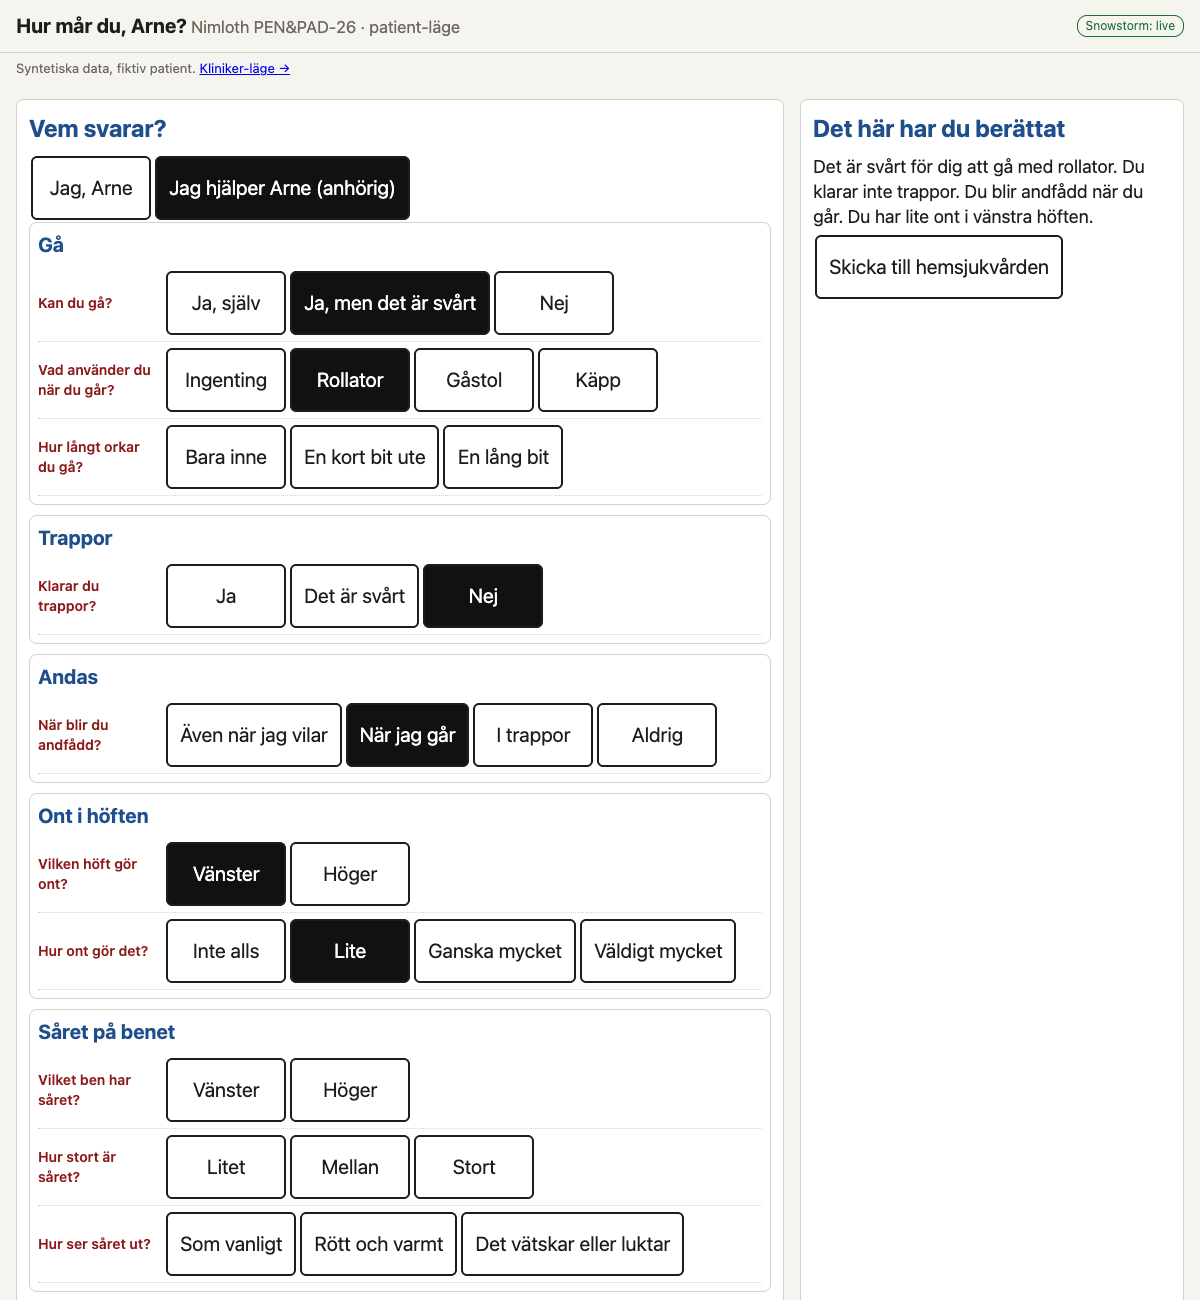
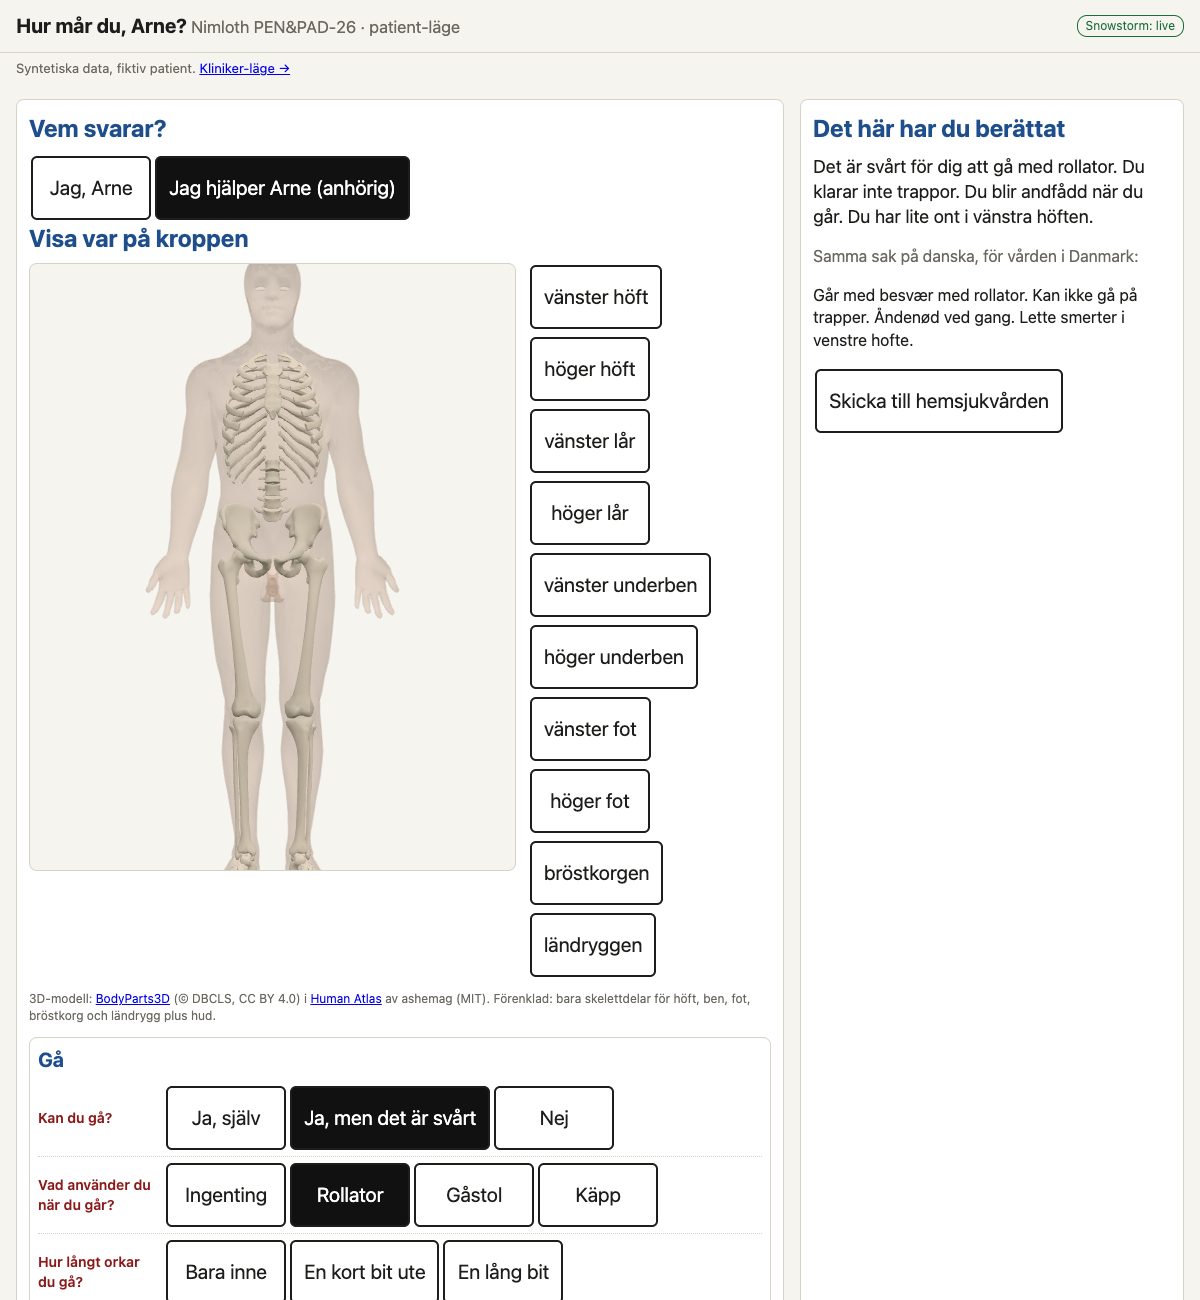
Nimloth PEN&PAD-26: 3D patient body map, new openEHR template, Access note

diff --git a/challenge/nimloth-penpad26/readme.md b/challenge/nimloth-penpad26/readme.md
@@ -1,7 +1,7 @@
 # Arne's function, in any language — PEN&PAD on the Arne scenario
 Nordic Hackathon 2026, PEN&PAD-26 bonus track · Nimloth (Anders Carlius)
 
-**Live demo:** https://penpad.nimloth.se (clinician mode) · https://penpad.nimloth.se/patient/ (patient mode)
+**Live demo:** https://penpad.nimloth.se (clinician mode) · https://penpad.nimloth.se/patient/ (patient mode). The demo sits behind Cloudflare Access; reviewers are invited by e-mail on request.
 **Contact:** TODO(Anders): GitHub handle or contact page
 
 ## The gap we aimed at
@@ -9,7 +9,7 @@ Arne (83, fictional) breaks his hip on the stairs in Copenhagen and is discharge
 
 We used the same coded record for both sides of the border:
 - **Clinician mode** (discharge, Rigshospitalet) follows the track's three steps. *Orientation:* body map (hip, leg, chest), topic list (transfer, walking, stairs, breathing, pain, wound), or free text / speech. *Refinement:* only follow-ups that make sense, as short questions (fracture → left or right? operated? · walking → aid? how far? · breathing → breathless at rest, walking or stairs?). *Confirmation:* "Is this what you meant?" as a live sentence.
-- **Patient mode** (at home in Sweden): plain Swedish and big buttons. Arne answers himself, or his son does it for him. The result is saved as a **draft marked patient-reported**, with "reported by: patient / relative". The home-care nurse opens the draft in clinician mode, refines it and confirms it. We show provenance; we do not try to solve proxy consent.
+- **Patient mode** (at home in Sweden): plain Swedish and big buttons, plus a **3D body** to point at (where it hurts, where the leg ulcer is). The 3D view is only the default in patient mode; the clinician keeps a fast 2D map and list, because a model you must rotate slows a clinician down (Rector: "exhaustive is the enemy of the useful"). A list next to the 3D view does the same thing, and replaces it when WebGL or the geometry is missing. Arne answers himself, or his son does it for him. The result is saved as a **draft marked patient-reported**, with "reported by: patient / relative". The home-care nurse opens the draft in clinician mode, refines it and confirms it. We show provenance; we do not try to solve proxy consent.
 
 ## Three things worth looking at
 1. **The track's three steps in both modes**: orientation, refinement and confirmation.
@@ -21,25 +21,30 @@ We used the same coded record for both sides of the border:
 ## Rector's recipe, applied
 | Rector (interviews part 2 and 4) | What we built for Arne |
 |---|---|
-| Separate the concept model, the information model and inference; coordinate, don't merge | SNOMED CT (Snowstorm, Swedish edition) sanctions what can be said; openEHR (EHRbase, `problem_diagnosis`) stores it; FHIR R4 / EPS carries it across the border |
+| Separate the concept model, the information model and inference; coordinate, don't merge | SNOMED CT (Snowstorm, Swedish edition) sanctions what can be said; openEHR (EHRbase, template `nimloth_penpad26_symptom.v0`) stores it; FHIR R4 / EPS carries it across the border |
 | The concept model *sanctions*: query it, don't invent concepts | Every option is checked at runtime: ECL membership, or the MRCM attribute range (laterality, severity). Unsanctioned options are dropped, or shown dotted when Snowstorm is down |
 | Assemble forms from fragments hung on the concept model | `model/arne-scenario.json` holds the fragments (topics, questions, candidate codes); no form rows are hard-coded in the UI |
 | Big toggle buttons, a visible "more", no death by a thousand clicks | Big toggles, at most three short questions per topic, one click to undo |
 | "Is this what you meant?": show back a processed result, easy to correct | Live four-language sentence and SNOMED CT expression on every click; optional local LLM (on our own box, never the cloud) may only pick among offered values (JSON schema) and its picks are marked until the clinician accepts them |
 | Different language for clinicians and patients | `sv` vs `sv-enkel` from the same record; patient mode in plain Swedish |
 | Be tolerant of broken parts | Snowstorm down → offline snapshot or unsanctioned + warning; EHRbase down → queued in the browser, "ej sparad"; FHIR down → resource shown, "ej skickad". Tested by pointing each at a wrong URL |
+| Show that options exist; let the user turn away at any time | Patient points on a 3D body (BodyParts3D meshes); a hand-written FMA→SNOMED table (`mapping/fma-to-snomed-arne.yaml`, codes confirmed in Snowstorm, laterality as its own field) turns the tap into a site; unknown meshes resolve to the nearest listed region or "unknown place – choose in the list", never a guessed code |
 | Cheap cardboard prototypes first | The engine was first built against recorded Snowstorm fixtures (the Clinergy thumb-pain walkthrough is kept as a regression test) |
 
 ## The actor test
 TODO(Anders): keep the actor-test section from the v0.1 draft (Rector, part 2: was the clinician attending to the patient or to the computer?).
 
 ## Honest limitations
+- FMA→SNOMED is a hand-written table for this one scenario (hip, thigh, lower leg, foot, chest, lumbar back), not a general mapping. 3D is deliberately the default only in patient mode (see the actor test and Rector's "exhaustive is the enemy of the useful").
 - Danish and plain Swedish are hand-written templates for this one scenario, not a general translator.
 - Danish SNOMED CT terms are not loaded in our Snowstorm (only the international and Swedish editions), so the Danish text comes from our templates only.
 - Proxy consent for relatives is not solved; we only show provenance.
-- openEHR uses the existing `problem_diagnosis` template (one entry per finding); a dedicated functional-status template (e.g. Barthel / symptom_sign) would be better.
+- openEHR uses a small template generated for the demo (`nimloth_penpad26_symptom.v0`: encounter → story → symptom_sign + anatomical_location, plus exam), pruned from CKM archetypes; a validated functional-status template (e.g. Barthel) would be better.
 - Local LLM suggestions run on CPU and take about a minute.
 - EHDS requirements apply from 2029–2031; this is a prototype on synthetic data (Arne is fictional).
+
+## 3D model attribution
+The 3D body in patient mode uses **BodyParts3D 4.0** (© The Database Center for Life Science, [CC BY 4.0](https://creativecommons.org/licenses/by/4.0/), https://dbarchive.biosciencedbc.jp/en/bodyparts3d/) as packaged in **[Human Atlas](https://github.com/ashemag/human-atlas) by ashemag (MIT)**. We load only 64 skeleton meshes plus the skin (1.6 MB gzip instead of ~33 MB); meshes are copied unchanged. Human Atlas itself is not part of this pull request; we link to it.
 
 ## Thanks
 To the PEN&PAD revival team for the [Clinergy extractor and notes](https://pen-pad-revival.github.io/docs/clinergy/) and the [thumb-pain walkthrough](https://pen-pad-revival.github.io/docs/clinergy-thumb-pain-demo/), and to the Nordic Hackathon organisers for the Arne scenario. We built on the ideas; we did not copy code or content from the Clinergy installation.
@@ -49,4 +54,4 @@ To the PEN&PAD revival team for the [Clinergy extractor and notes](https://pen-p
 |---|---|
 | ![Orientation](01-inriktning.png) Orientation: body map + topic list | ![Refinement](02-forfining.png) Refinement as short questions |
 | ![Four languages](03-fyra-sprak.png) One record, four languages | ![EPS validation](04-eps-validering.png) openEHR saved, EPS validated |
-| ![Patient mode](05-patient-lage.png) Patient mode (relative answering) | |
+| ![Patient mode](05-patient-lage.png) Patient mode (relative answering) | ![3D body](07-patient-3d-hoft.png) Arne points at his left hip in 3D → "Du har ont i vänstra höften." / "Smerter i venstre hofte." |
